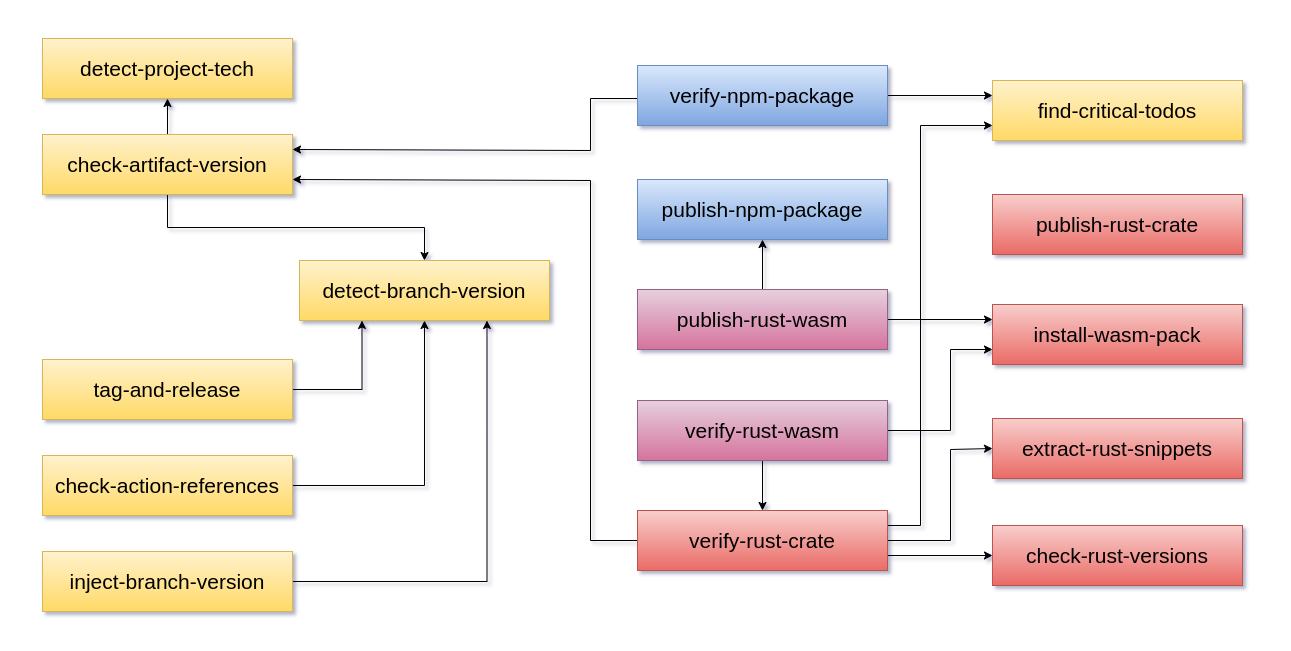
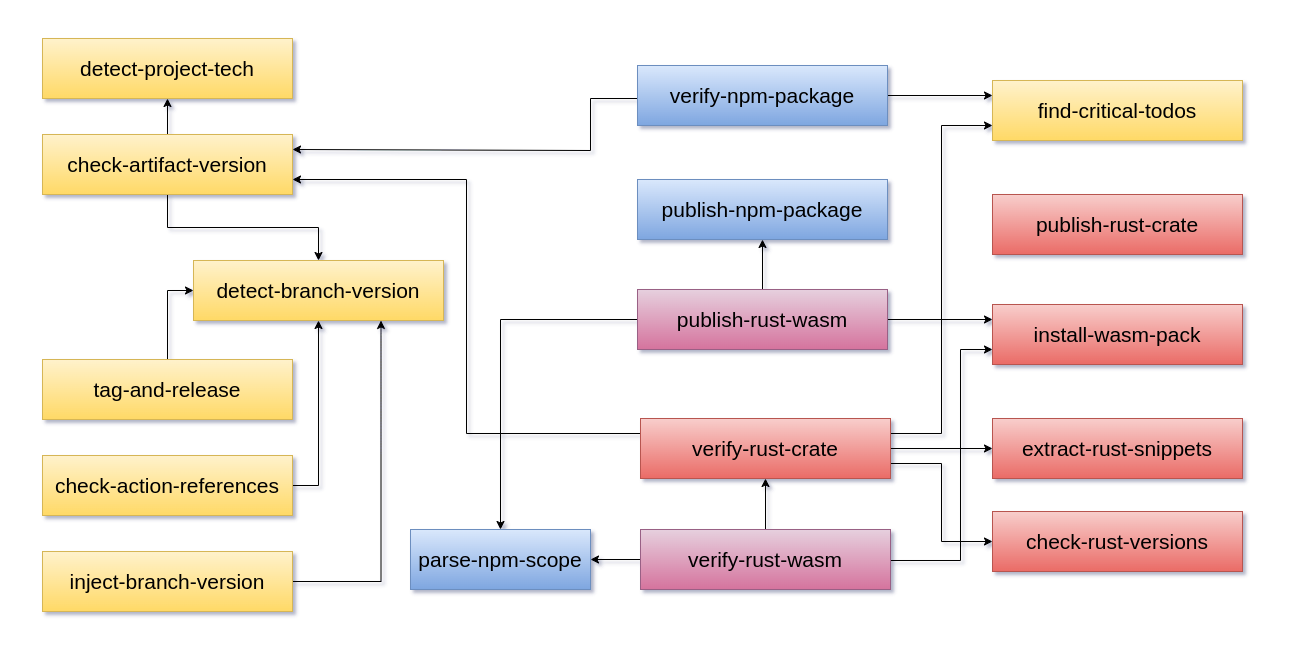
Introduce parse-npm-scope (closes #9)

diff --git a/actions/verify-rust-wasm/README.md b/actions/verify-rust-wasm/README.md
@@ -54,21 +54,23 @@ steps:
 
 ## Inputs
 
-|           Name            |    Type     |                         Description                          |  Default value   |
-| :-----------------------: | :---------: | :----------------------------------------------------------: | :--------------: |
-|    `wasm-pack-version`    | **string**  |              The `wasm-pack` version to install              |                  |
-|        `npm-scope`        | **string**  | The npm package scope (**without** the initial `@`) or empty |                  |
-| `client-tests-directory`  | **string**  | Relative directory containing the NodeJS-based client tests  | **client-tests** |
-|       `wasm-target`       | **string**  |         The target of the `wasm-pack build` command          |     **web**      |
-|    `run-clippy-checks`    | **boolean** |                  Enable linting via Clippy                   |     **true**     |
-|     `run-doc-checks`      | **boolean** |      Run documentation checks - with warnings as errors      |    **false**     |
-| `crash-on-critical-todos` | **boolean** |        Crash the workflow if critical TODOs are found        |     **true**     |
-|    `source-file-regex`    | **string**  |           PCRE pattern describing the source files           |    **\\.rs$**    |
-| `check-artifact-version`  | **boolean** |   Ensure the version in Cargo.toml matches the branch name   |     **true**     |
-|    `project-directory`    | **string**  |            The directory containing `Cargo.toml`             |      **.**       |
-|          `shell`          | **string**  |                The shell used to run commands                |     **bash**     |
+|           Name            |    Type     |                         Description                         |  Default value   |
+| :-----------------------: | :---------: | :---------------------------------------------------------: | :--------------: |
+|    `wasm-pack-version`    | **string**  |             The `wasm-pack` version to install              |                  |
+|        `npm-scope`        | **string**  |              The npm package scope or `<ROOT>`              |                  |
+| `client-tests-directory`  | **string**  | Relative directory containing the NodeJS-based client tests | **client-tests** |
+|       `wasm-target`       | **string**  |         The target of the `wasm-pack build` command         |     **web**      |
+|    `run-clippy-checks`    | **boolean** |                  Enable linting via Clippy                  |     **true**     |
+|     `run-doc-checks`      | **boolean** |     Run documentation checks - with warnings as errors      |    **false**     |
+| `crash-on-critical-todos` | **boolean** |       Crash the workflow if critical TODOs are found        |     **true**     |
+|    `source-file-regex`    | **string**  |          PCRE pattern describing the source files           |    **\\.rs$**    |
+| `check-artifact-version`  | **boolean** |  Ensure the version in Cargo.toml matches the branch name   |     **true**     |
+|    `project-directory`    | **string**  |            The directory containing `Cargo.toml`            |      **.**       |
+|          `shell`          | **string**  |               The shell used to run commands                |     **bash**     |
 
 ## Further references
+
+- [parse-npm-scope](../parse-npm-scope/README.md)
 
 - [check-rust-versions](../check-rust-versions/README.md)
 

diff --git a/actions/publish-rust-wasm/README.md b/actions/publish-rust-wasm/README.md
@@ -27,19 +27,21 @@ steps:
 
 ## Inputs
 
-|           Name           |    Type     |                         Description                          |  Default value   |
-| :----------------------: | :---------: | :----------------------------------------------------------: | :--------------: |
-|       `npm-token`        | **string**  |            The secret token for publishing to npm            |                  |
-|   `wasm-pack-version`    | **string**  |              The `wasm-pack` version to install              |                  |
-|       `npm-scope`        | **string**  | The npm package scope (**without** the initial `@`) or empty |                  |
-|        `dry-run`         | **boolean** |         Run a simulated publication via `--dry-run`          |    **false**     |
-|      `wasm-target`       | **string**  |         The target of the `wasm-pack build` command          |     **web**      |
-| `node-version-directory` | **string**  |       Relative directory containing the `.nvmrc` file        | **client-tests** |
-|   `project-directory`    | **string**  |            The directory containing `Cargo.toml`             |      **.**       |
-|         `shell`          | **string**  |                The shell used to run commands                |     **bash**     |
+|           Name           |    Type     |                   Description                   |  Default value   |
+| :----------------------: | :---------: | :---------------------------------------------: | :--------------: |
+|        `dry-run`         | **boolean** |   Run a simulated publication via `--dry-run`   |    **false**     |
+|       `npm-token`        | **string**  |     The secret token for publishing to npm      |                  |
+|   `wasm-pack-version`    | **string**  |       The `wasm-pack` version to install        |                  |
+|       `npm-scope`        | **string**  |        The npm package scope or `<ROOT>`        |                  |
+|      `wasm-target`       | **string**  |   The target of the `wasm-pack build` command   |     **web**      |
+| `node-version-directory` | **string**  | Relative directory containing the `.nvmrc` file | **client-tests** |
+|   `project-directory`    | **string**  |      The directory containing `Cargo.toml`      |      **.**       |
+|         `shell`          | **string**  |         The shell used to run commands          |     **bash**     |
 
 ## Further references
 
-- [verify-rust-wasm](../verify-rust-wasm/README.md) instead
+- [parse-npm-scope](../parse-npm-scope/README.md)
+
+- [verify-rust-wasm](../verify-rust-wasm/README.md)
 
 - [aurora-github](../../README.md)

diff --git a/actions/parse-npm-scope/README.md b/actions/parse-npm-scope/README.md
@@ -1,0 +1,40 @@
+# parse-npm-scope
+
+Parses a mandatory [npm scope](https://docs.npmjs.com/cli/v10/using-npm/scope) declaration.
+
+## Example
+
+```yaml
+steps:
+  - id: scope-parser
+    uses: giancosta86/aurora-github/actions/parse-npm-scope@v3
+    with:
+      scope: giancosta86
+```
+
+## Requirements
+
+- The `scope` input _must_ be declared. It can be:
+
+  - `<ROOT>`, for a scope-less package in the root of the npm registry
+
+  - the _package scope_ as a string, with an optional leading `@`
+
+## Inputs
+
+|  Name   |    Type    |          Description           | Default value |
+| :-----: | :--------: | :----------------------------: | :-----------: |
+| `scope` | **string** |     The npm scope to parse     |               |
+| `shell` | **string** | The shell used to run commands |   **bash**    |
+
+## Outputs
+
+|      Name      |    Type    |                        Description                        |     Example     |
+| :------------: | :--------: | :-------------------------------------------------------: | :-------------: |
+| `actual-scope` | **string** | The scope without '@', or the empty string for root scope | **giancosta86** |
+
+## Further references
+
+- [npm scope](https://docs.npmjs.com/cli/v10/using-npm/scope)
+
+- [aurora-github](../../README.md)

diff --git a/README.md b/README.md
@@ -48,6 +48,10 @@ In particular, the actions can be grouped by technology:
 
 - [install-wasm-pack](./actions/install-wasm-pack/README.md)
 
+## 📦NodeJS utilities
+
+- [parse-npm-scope](./actions/parse-npm-scope/README.md)
+
 ## 🧰General-purpose utilities
 
 - [find-critical-todos](./actions/find-critical-todos/README.md)
